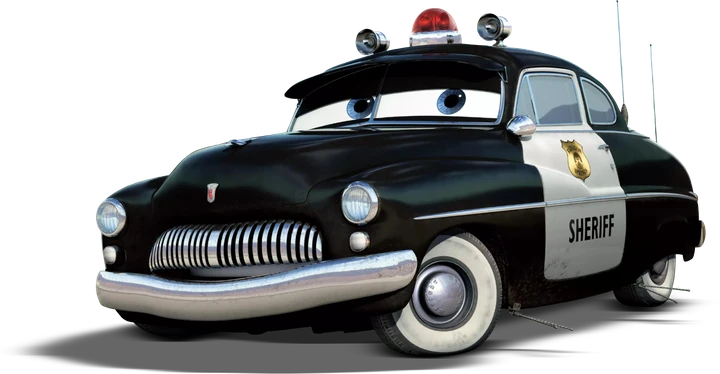
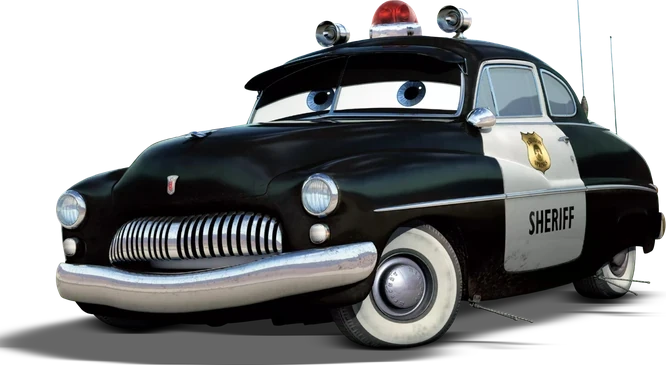
Phòng xem xe 2D: xe đứng yên trên bục, vuốt để đổi xe, cắt dải trong suốt dưới chân ảnh, sửa màn ngang
Claude-Session: https://claude.ai/code/session_01MAp9h25oyVUjyk4HgxeQqK

diff --git a/index.html b/index.html
@@ -1233,10 +1233,11 @@ main{background:linear-gradient(160deg,#c4d4ff,#ada5e4);border:2px solid #f4f4ff
 .setv h2,.settingsv h2{display:flex;align-items:center;gap:8px}
 .k-gearc{height:clamp(46px,12vw,66px);width:auto;vertical-align:middle;margin-right:8px;filter:drop-shadow(0 3px 3px #0003)}
 .s2stage{position:relative;flex:1;min-height:260px;border:4px solid #fff;border-radius:26px;overflow:hidden;touch-action:none;box-shadow:0 10px 24px var(--soft);display:flex;align-items:flex-end;justify-content:center}
-.s2car{position:absolute;left:0;right:0;margin:0 auto;bottom:14%;width:min(78%,420px);display:flex;justify-content:center;align-items:flex-end;pointer-events:none;transform-origin:50% 100%}
+.s2car{position:absolute;left:0;right:0;margin:0 auto;bottom:30%;width:78%;display:flex;justify-content:center;align-items:flex-end;pointer-events:none;transform-origin:50% 100%}
 .s2car .charcar,.s2car svg{width:100%;height:auto;max-height:46vh;object-fit:contain;filter:drop-shadow(0 10px 8px #0003)}
 .s2car.pop{animation:s2pop .5s cubic-bezier(.3,1.6,.5,1)}
 @keyframes s2pop{from{opacity:0;margin-bottom:-40px}to{opacity:1;margin-bottom:0}}
+@media (min-aspect-ratio:12/10){.s2stage{flex:none;height:min(70vh,640px);aspect-ratio:3/4;align-self:center;min-height:0}.show2d .hint{display:none}}
 .s2nav{position:absolute;top:42%;z-index:2;width:clamp(48px,13vw,66px);height:clamp(48px,13vw,66px);padding:0;border:0;background:url(img/ui-arrow.webp) center/contain no-repeat;filter:drop-shadow(0 3px 3px #0003)}
 .s2nav.l{left:8px;transform:scaleX(-1)}.s2nav.r{right:8px}
 .s2nav:active{opacity:.8}
@@ -1554,11 +1555,11 @@ var CARS={
  francesco:{name:'Francesco',kind:'race',color:'#E53935',iris:'#6B3F1D',cvi:'đỏ xanh lá',cen:'red and green',vi:'siêu xe Ý',en:'super car from Italy',honk:'Chao chao!',special:true,img:'img/car-francesco.webp',iw:640,ih:416},
  mcqueen:{name:'McQueen',kind:'race',color:'#E3262A',iris:'#2B7FA8',cvi:'đỏ',cen:'red',vi:'siêu xe đua đỏ',en:'red race car',honk:'Ka chao!',special:true,img:'img/car-mcqueen.webp',iw:663,ih:394},
  jackson:{name:'Jackson Storm',kind:'race',color:'#1B2350',iris:'#2B6BE0',cvi:'đen xanh',cen:'black and blue',vi:'siêu xe đua xanh đen',en:'black and blue race car',honk:'Vù vù!',special:true,img:'img/car-jackson.webp',iw:720,ih:317},
- mater:{name:'Mater',kind:'race',color:'#A8542B',iris:'#4F7A2E',cvi:'nâu gỉ',cen:'rusty brown',vi:'xe cứu hộ vui nhộn',en:'funny tow truck',honk:'Bíp bíp!',special:true,img:'img/car-mater.webp',iw:640,ih:532},
+ mater:{name:'Mater',kind:'race',color:'#A8542B',iris:'#4F7A2E',cvi:'nâu gỉ',cen:'rusty brown',vi:'xe cứu hộ vui nhộn',en:'funny tow truck',honk:'Bíp bíp!',special:true,img:'img/car-mater.webp',iw:615,ih:471},
  chick:{name:'Chick Hicks',kind:'race',color:'#5BBF2A',iris:'#8A4B22',cvi:'xanh lá',cen:'green',vi:'xe đua xanh lá',en:'green race car',honk:'Chíu chíu!',special:true,img:'img/car-chick.webp',iw:720,ih:364},
  hudson:{name:'Hudson',kind:'race',color:'#26357A',iris:'#2B8FD6',cvi:'xanh đậm',cen:'dark blue',vi:'xe đua cổ xanh đậm',en:'vintage blue race car',honk:'Pốp pốp!',special:true,img:'img/car-hudson.webp',iw:720,ih:350},
- cruz:{name:'Cruz',kind:'race',color:'#F2A31B',iris:'#7A4A22',cvi:'vàng cam',cen:'orange',vi:'xe đua vàng cam',en:'orange race car',honk:'Ù ù!',special:true,img:'img/car-cruz.webp',iw:720,ih:438},
- sheriff:{name:'Sheriff',kind:'race',color:'#1D1F2A',iris:'#2B6BE0',cvi:'đen trắng',cen:'black and white',vi:'xe cảnh sát cổ',en:'vintage police car',honk:'Ò e ò e!',special:true,img:'img/car-sheriff.webp',iw:720,ih:374},
+ cruz:{name:'Cruz',kind:'race',color:'#F2A31B',iris:'#7A4A22',cvi:'vàng cam',cen:'orange',vi:'xe đua vàng cam',en:'orange race car',honk:'Ù ù!',special:true,img:'img/car-cruz.webp',iw:653,ih:396},
+ sheriff:{name:'Sheriff',kind:'race',color:'#1D1F2A',iris:'#2B6BE0',cvi:'đen trắng',cen:'black and white',vi:'xe cảnh sát cổ',en:'vintage police car',honk:'Ò e ò e!',special:true,img:'img/car-sheriff.webp',iw:666,ih:365},
  fritter:{name:'Miss Fritter',kind:'race',color:'#F2B21B',iris:'#2B8FD6',cvi:'vàng',cen:'yellow',vi:'xe buýt trường học',en:'school bus',honk:'Kít kít!',special:true,img:'img/car-fritter.webp',iw:720,ih:649},
  flo:{name:'Flo',kind:'race',color:'#58C2B0',iris:'#2E9B4E',cvi:'xanh ngọc',cen:'turquoise',vi:'xe cổ xanh ngọc',en:'turquoise vintage car',honk:'Tu tu!',special:true,img:'img/car-flo.webp',iw:720,ih:324},
  sally:{name:'Sally',kind:'race',color:'#888888',iris:'#2B6BE0',cvi:'xanh da trời',cen:'light blue',vi:'xe thể thao xanh',en:'blue sports car',honk:'Pin pin!',special:true,img:'img/car-sally.webp',iw:720,ih:387},
@@ -3707,11 +3708,11 @@ function openShowroom(id){
     +(list.length>1?'<button type="button" class="s2nav l" id="s2prev" aria-label="Xe trước"></button><button type="button" class="s2nav r" id="s2next" aria-label="Xe sau"></button>':'')
     +'<button type="button" class="k-horn" id="hornBtn" aria-label="Bấm còi"><img src="img/ui-horn.webp" alt=""></button></div>'
     +'<div class="palette" id="s2pal">'+sw+'</div>'
-    +'<div class="hint" style="text-align:center;background:rgba(255,255,255,.88);border-radius:14px;padding:2px 10px;opacity:1">Chạm xe để bấm còi · Vuốt để xoay · Tap to honk, swipe to turn</div></section>';
+    +'<div class="hint" style="text-align:center;background:rgba(255,255,255,.88);border-radius:14px;padding:2px 10px;opacity:1">Chạm xe để bấm còi · Vuốt để đổi xe · Tap to honk, swipe to switch</div></section>';
   D=st;
   var stage=$('#s2stage'),box=$('#s2car');
   function show(first){
-    id=list[idx];c=CARS[id];color=null;ang=0;
+    id=list[idx];c=CARS[id];color=null;
     $('#s2n').textContent=c.name+' · '+c.vi;$('#s2s').textContent=c.en;
     box.innerHTML=c.img?charCarHTML(id):carSVG(id);
     $('#s2pal').style.display=c.img?'none':'';
@@ -3720,20 +3721,24 @@ function openShowroom(id){
   }
   function honk(){sfx('honk');bump=.5;speakNow([[c.honk,'vi',true]])}
   stage.addEventListener('pointerdown',function(e){if(e.target.closest('button'))return;drag=true;lx=e.clientX;moved=0;try{stage.setPointerCapture(e.pointerId)}catch(_){}});
-  stage.addEventListener('pointermove',function(e){if(!drag)return;var dx=e.clientX-lx;lx=e.clientX;moved+=Math.abs(dx);ang-=dx*.012});
-  stage.addEventListener('pointerup',function(){var was=drag;drag=false;if(was&&moved<8)honk()});
+  var sx0=0;
+  stage.addEventListener('pointerdown',function(e){sx0=e.clientX});
+  stage.addEventListener('pointermove',function(e){if(!drag)return;moved=Math.max(moved,Math.abs(e.clientX-sx0))});
+  stage.addEventListener('pointerup',function(e){var was=drag;drag=false;if(!was)return;var dx=e.clientX-sx0;if(Math.abs(dx)>50&&list.length>1)go(dx<0?1:-1);else if(moved<8)honk()});
   var hb=$('#hornBtn');hb.addEventListener('pointerdown',function(e){e.stopPropagation()});hb.addEventListener('click',function(e){e.stopPropagation();honk()});
   function go(d){idx=(idx+list.length+d)%list.length;sfx('pop');show()}
   var pv=$('#s2prev'),nx=$('#s2next');
   if(pv){pv.addEventListener('click',function(e){e.stopPropagation();go(-1)});nx.addEventListener('click',function(e){e.stopPropagation();go(1)})}
   st.recolor=function(hex){if(c.img)return;color=hex;box.innerHTML=carSVG(id,hex)};
+  /* đặt xe đúng lên mặt bục trong ảnh nền (ảnh 720x1279, mặt bục rộng ~660px, chân xe chạm ở y≈905) */
+  function place(){var W=stage.clientWidth,H=stage.clientHeight;if(!W||!H)return;var k=Math.max(W/720,H/1279);
+    box.style.bottom=Math.round(364*k)+'px';box.style.width=Math.round(Math.min(560*k,W*.92))+'px'}
+  place();setTimeout(place,80);window.addEventListener('resize',place);st.onResize=place;
   (function frame(now){
     if(D!==st||!st.run)return;
     var dt=Math.min(.05,(now-last)/1000);last=now;
-    if(!drag&&!reduce)ang+=dt*.5;
     if(bump>0)bump=Math.max(0,bump-dt*1.6);
-    var sx=Math.cos(ang),sq=Math.abs(sx)<.12?(sx<0?-.12:.12):sx;
-    box.style.transform='translateY('+(-Math.sin(bump*30)*bump*26)+'px) scale('+sq+',1)';
+    box.style.transform=bump>0?'translateY('+(-Math.sin(bump*30)*bump*26)+'px)':'none';
     st.raf=requestAnimationFrame(frame);
   })(last);
   show(true);
